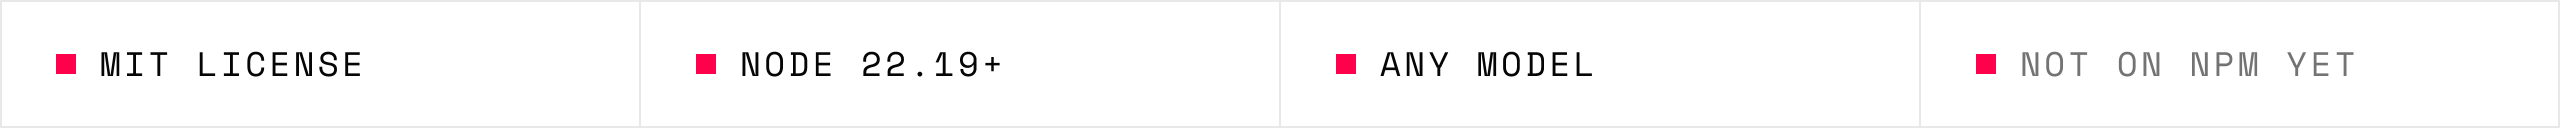
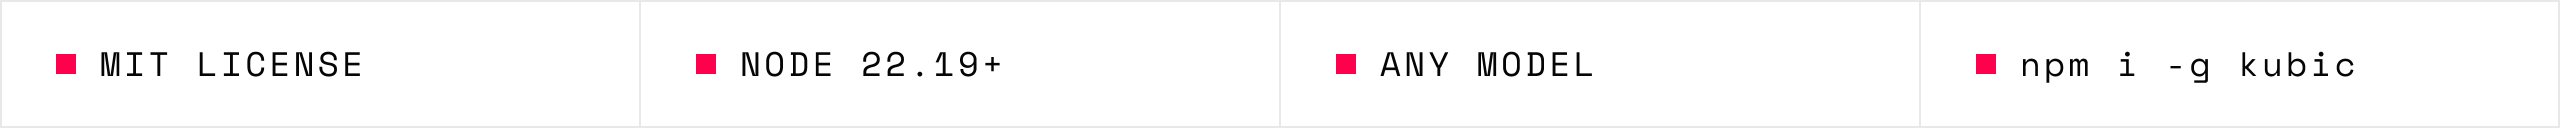
docs(install): install from npm, and stage a README the package page can show
- The README, getting started and the docs indexes install with
  `npm install -g kubic` (or run `npx kubic`); building from source
  moves to the contributor docs. The README's section is now Install,
  the one the launcher's old-Node message names.
- The facts strip's fourth cell is the install command, and an npm
  version badge sits beside the CI badge.
- The root manifest carries the package page's fields: a description,
  keywords, the repository, homepage, bugs and author.
- release:stage writes the README npm shows: each picture becomes its
  PNG, served by jsDelivr from the package at its version (the images
  ship in it), other relative links point at the repository, and the
  badge line, which shows the state of main, is left out. The pack
  contract allows exactly those images.
- The support policy and release trust pages say what a published
  version carries and how to verify it.

Changed region(s): [[0.7812, 0.4062, 0.9375, 0.5938], [0.8438, 0.625, 0.875, 0.6562]]

diff --git a/scripts/art/art.py b/scripts/art/art.py
@@ -67,9 +67,9 @@ THEMES = {
 EYEBROW = 'Agentic coding, in your control'
 TAGLINE = 'Built for teams and enterprise'
 SIGNATURE = 'Konic'
-FACTS = ('MIT license', 'Node 22.19+', 'Any model', 'Not on npm yet')
-# How many leading facts are stated plainly; the rest are muted.
-FACTS_PLAIN = 3
+FACTS = ('MIT license', 'Node 22.19+', 'Any model', 'npm i -g kubic')
+# The facts set as typed rather than in capitals: a command to copy.
+FACTS_TYPED = {'npm i -g kubic'}
 
 # The Konic mark: a disc split by a gap at 60 degrees, on a 512 grid.
 MARK = ('M169.748 476.331L403.686 71.138A16.384 16.384 0 0 1 428.944 67.25'
@@ -347,9 +347,12 @@ class Type:
             glyphs[glyph].draw(transform_pen(pen, (scale, 0, 0, -scale, x + offset, y)))
         return pen.getCommands(), width
 
-    def label(self, text, x, y, size, fill, anchor='start', cls=None, delay=None):
-        """Space Mono in capitals, tracked out: Konic's small labels."""
-        d, width = self.path(text.upper(), LABEL, size, x, y, tracking=0.1, anchor=anchor)
+    def label(self, text, x, y, size, fill, anchor='start', cls=None, delay=None,
+              capitals=True):
+        """Space Mono, tracked out and in capitals unless CAPITALS is false:
+        Konic's small labels."""
+        d, width = self.path(text.upper() if capitals else text, LABEL, size, x, y,
+                             tracking=0.1, anchor=anchor)
         return f'<path{motion(cls, delay)} fill="{fill}" d="{d}"/>', width
 
     def words(self, text, x, y, size, fill, weight=500, cls=None, delay=None):
@@ -405,8 +408,8 @@ def facts(theme, type_):
         if i:
             parts.append(f'<path d="M{num(x)} 0V{height}" stroke="{t["rule"]}"/>')
         parts.append(f'<rect x="{num(x + 28)}" y="{height // 2 - 5}" width="10" height="10" fill="{RED}"/>')
-        text, _ = type_.label(fact, x + 50, height / 2 + 6, 17,
-                              t['fg'] if i < FACTS_PLAIN else t['muted'])
+        text, _ = type_.label(fact, x + 50, height / 2 + 6, 17, t['fg'],
+                              capitals=fact not in FACTS_TYPED)
         parts.append(text)
     parts.append(f'<rect x=".5" y=".5" width="{width - 1}" height="{height - 1}" '
                  f'fill="none" stroke="{t["rule"]}"/>')

diff --git a/README.md b/README.md
@@ -7,14 +7,14 @@
 <picture>
   <source media="(prefers-color-scheme: dark)" srcset="docs/assets/readme/facts-dark.svg" type="image/svg+xml">
   <source media="(prefers-color-scheme: light)" srcset="docs/assets/readme/facts-light.svg" type="image/svg+xml">
-  <img src="docs/assets/readme/facts-light.png" width="100%" alt="MIT license. Node 22.19+. Any model. Not on npm yet.">
+  <img src="docs/assets/readme/facts-light.png" width="100%" alt="MIT license. Node 22.19+. Any model. npm i -g kubic.">
 </picture>
 
 **Kubic is Konic's open-source coding agent.** It runs in your terminal with the
 model you choose, records every file change in a journal you can review and undo,
 and asks before anything risky runs. Teams get managed policy, an audit ledger and
 spend caps on top.
-[![CI](https://github.com/konic-labs/kubic/actions/workflows/ci.yml/badge.svg?branch=main)](https://github.com/konic-labs/kubic/actions/workflows/ci.yml)
+[![CI](https://github.com/konic-labs/kubic/actions/workflows/ci.yml/badge.svg?branch=main)](https://github.com/konic-labs/kubic/actions/workflows/ci.yml) [![npm](https://img.shields.io/npm/v/kubic?color=ff004d&label=npm)](https://www.npmjs.com/package/kubic)
 
 <picture>
   <source srcset="docs/assets/readme/session.svg" type="image/svg+xml">
@@ -60,23 +60,22 @@ spend caps on top.
   </tr>
 </table>
 
-## Quick start
+## Install
 
-Kubic is not on npm yet. Build it from source with Node 22.19 or later:
+Kubic needs Node 22.19 or later:
 
 ```bash
-git clone https://github.com/konic-labs/kubic.git
-cd kubic && npm ci && npm run build
+npm install -g kubic
 export ANTHROPIC_API_KEY=...    # or OPENAI_API_KEY, GEMINI_API_KEY, ...
-./bin/kubic.js                  # the first launch picks a default model
+kubic                           # the first launch picks a default model
 ```
 
 Describe a task, review the change with `Ctrl+O`, and type `/undo` to put a turn
-back. Run `npm link` once to use `kubic` in any directory. To try Kubic without a
-key, `KUBIC_PROVIDER=faux ./bin/kubic.js` opens the TUI on a built-in model that
-echoes your prompts.
+back. `npx kubic` runs Kubic without installing it, and `KUBIC_PROVIDER=faux kubic`
+opens the TUI without a key, on a built-in model that echoes your prompts.
 
-[Getting started](docs/getting-started.md) walks through a first session.
+[Getting started](docs/getting-started.md) walks through a first session, and
+[Contributing](CONTRIBUTING.md) builds Kubic from source.
 
 ## Documentation
 

diff --git a/docs/contributing.md b/docs/contributing.md
@@ -8,12 +8,14 @@ code, docs, or CLI text.
 
 ## Getting set up
 
-Node >= 22.19 is the only requirement:
+Users install Kubic with `npm install -g kubic`; working on Kubic itself
+starts from a clone. Node >= 22.19 is the only requirement:
 
 ```sh
 npm ci
 npm run build                # esbuild bundle -> gitignored dist/kubic.js
 ./bin/kubic.js --version
+npm link                     # optional: `kubic` on your PATH runs this build
 ```
 
 Kubic runs on the Pi agent harness (`@earendil-works/*` **1.0.2**, exact
@@ -346,8 +348,8 @@ to use it, plainly.
   architecture pages, not in the user docs.
 - **Keys** are written `Ctrl+O`, `Alt+M`, `Shift+Enter`, `Esc`, `Enter` and
   `Tab`. Quote the TUI's own hint text as it appears (`^O review diff`).
-- **Commands.** Examples write `kubic`; the [docs index](README.md) says once
-  that a source checkout runs `bin/kubic.js`. Show output where it helps, and
+- **Commands.** Examples write `kubic`, the command an install puts on the
+  `PATH`; the [docs index](README.md) says so once. Show output where it helps, and
   label sample output as an example.
 - **Tables or sections.** A table suits short, parallel facts: a flag and one
   line. When a cell needs more than a sentence or two, keep a one-line summary

diff --git a/docs/support-policy.md b/docs/support-policy.md
@@ -2,6 +2,17 @@
 
 > Which versions and platforms Kubic supports, and how fixes ship.
 
+## Installing and updating
+
+Kubic is the `kubic` package on npm:
+
+```sh
+npm install -g kubic          # install
+npm install -g kubic@latest   # update to the newest release
+```
+
+`kubic --version` names the installed version.
+
 ## Supported versions
 
 Kubic is pre-1.0: a minor release may change behaviour, and each change is
@@ -25,6 +36,9 @@ privately to the maintainers, never in a public issue.
 
 ## What a release carries
 
-Each release has its CycloneDX SBOM, SHA-256 checksums of its artifacts and
-an Ed25519 signature over them, and the npm package is published with
-provenance — see [release trust](release-trust.md).
+Every version on npm is signed by the registry, and a version published from
+CI also carries a provenance attestation naming its source commit and
+workflow; `npm audit signatures` checks both. The release tooling also writes
+each package's CycloneDX SBOM and the SHA-256 checksums of its artifacts,
+which it signs with an Ed25519 key when given one — see
+[release trust](release-trust.md).

diff --git a/docs/getting-started.md b/docs/getting-started.md
@@ -5,20 +5,17 @@
 
 ## Install
 
-Kubic is not on npm yet, so build it from a clone. You need Node 22.19 or later
-and git.
+Kubic needs Node 22.19 or later:
 
 ```sh
-git clone https://github.com/konic-labs/kubic.git
-cd kubic
-npm ci
-npm run build
-npm link        # optional: puts `kubic` on your PATH
+npm install -g kubic
+kubic --version
 ```
 
-`./bin/kubic.js --version` prints the version. The rest of the docs write
-`kubic`; without `npm link`, run `bin/kubic.js` from your clone instead. On
-Windows, the `bash` tool needs Git Bash (Git for Windows) or WSL.
+`kubic --version` prints the version, and `npx kubic` runs Kubic without
+installing it. On Windows, the `bash` tool needs Git Bash (Git for Windows) or
+WSL. To build Kubic from source instead, see
+[contributing](contributing.md#getting-set-up).
 
 ## Connect a model
 

diff --git a/docs/cli/README.md b/docs/cli/README.md
@@ -3,10 +3,9 @@
 > The commands, keys, configuration and diagnostics you use Kubic through.
 > Package internals live on the [packages pages](../packages/README.md).
 
-Examples write `kubic`. From a source checkout that is `bin/kubic.js`, or
-`kubic` after `npm link` (see [install](../getting-started.md#install)). Every
-command answers `--help`, and [commands](commands.md) lists the rules they
-all follow.
+Examples write `kubic`, the command `npm install -g kubic` puts on your `PATH`
+(see [install](../getting-started.md#install)). Every command answers
+`--help`, and [commands](commands.md) lists the rules they all follow.
 
 - [commands.md](commands.md): the command index and the rules every command follows
 - [run.md](run.md): `kubic run`, `attach` and `resume`

diff --git a/docs/cli/commands.md b/docs/cli/commands.md
@@ -64,9 +64,8 @@ commander answers it before the action runs, so `kubic run|tui --help`
 prints that command's usage and exits 0 without starting a session or writing
 the runtime exclude rules.
 
-Build first (`npm run build`), then invoke `./bin/kubic.js` (or
-`npm run kubic -- …`); anything else dispatches below; an unknown command
-is a usage error (exit **2**) reported on stderr:
+Any other first argument dispatches to the commands below, and an unknown
+command is a usage error (exit **2**) reported on stderr:
 `error: unknown command '<name>'`, then `hint: did you mean kubic
 <command>?` for a near miss or `hint: to run it as a prompt: kubic run -p
 '<word>'` for any other word, then `hint: kubic --help lists the commands`

diff --git a/CONTRIBUTING.md b/CONTRIBUTING.md
@@ -7,12 +7,17 @@ full workflow and every CI gate are in [docs/contributing.md](docs/contributing.
 
 ## Set up
 
-Node 22.19 or newer and git are required: the test suite runs real git commands.
+Users install Kubic with `npm install -g kubic`. To work on Kubic itself,
+build it from a clone. Node 22.19 or newer and git are required: the test
+suite runs real git commands.
 
 ```sh
+git clone https://github.com/konic-labs/kubic.git
+cd kubic
 npm ci
 npm run build
 ./bin/kubic.js --version
+npm link        # optional: `kubic` on your PATH runs this build
 ```
 
 ## Before you open a pull request

diff --git a/docs/cli/doctor-and-debug.md b/docs/cli/doctor-and-debug.md
@@ -343,7 +343,7 @@ Error: <message>
 error: <message>
 ```
 
-The launcher carries a first check of its own: below Node 22.19 `./bin/kubic.js` refuses before loading
+The launcher carries a first check of its own: below Node 22.19 `kubic` (`bin/kubic.js`) refuses before loading
 anything — `kubic: node >= 22.19 required (running <version>) — see the
 README install section`, exit 1 — because on an older runtime the entry
 import could only fail as a raw parser error.

diff --git a/docs/release-trust.md b/docs/release-trust.md
@@ -2,6 +2,13 @@
 
 > What a Kubic release carries so it can be verified, and how.
 
+## Verifying a package
+
+Every version on npm is signed by the registry. In a project that depends on
+Kubic (`npm install kubic`), `npm audit signatures` checks the signature of
+every installed package, and the provenance attestation of each version that
+has one.
+
 ## Provenance
 
 The staged package's manifest sets `publishConfig.provenance`, so a publish

diff --git a/docs/README.md b/docs/README.md
@@ -2,8 +2,8 @@
 
 > Start with the guide, then look things up in the reference.
 
-Examples write `kubic`. From a source checkout that is `bin/kubic.js`, or
-`kubic` after `npm link` (see [install](getting-started.md#install)).
+Examples write `kubic`, the command `npm install -g kubic` puts on your `PATH`
+(see [install](getting-started.md#install)).
 
 ## Start here
 
